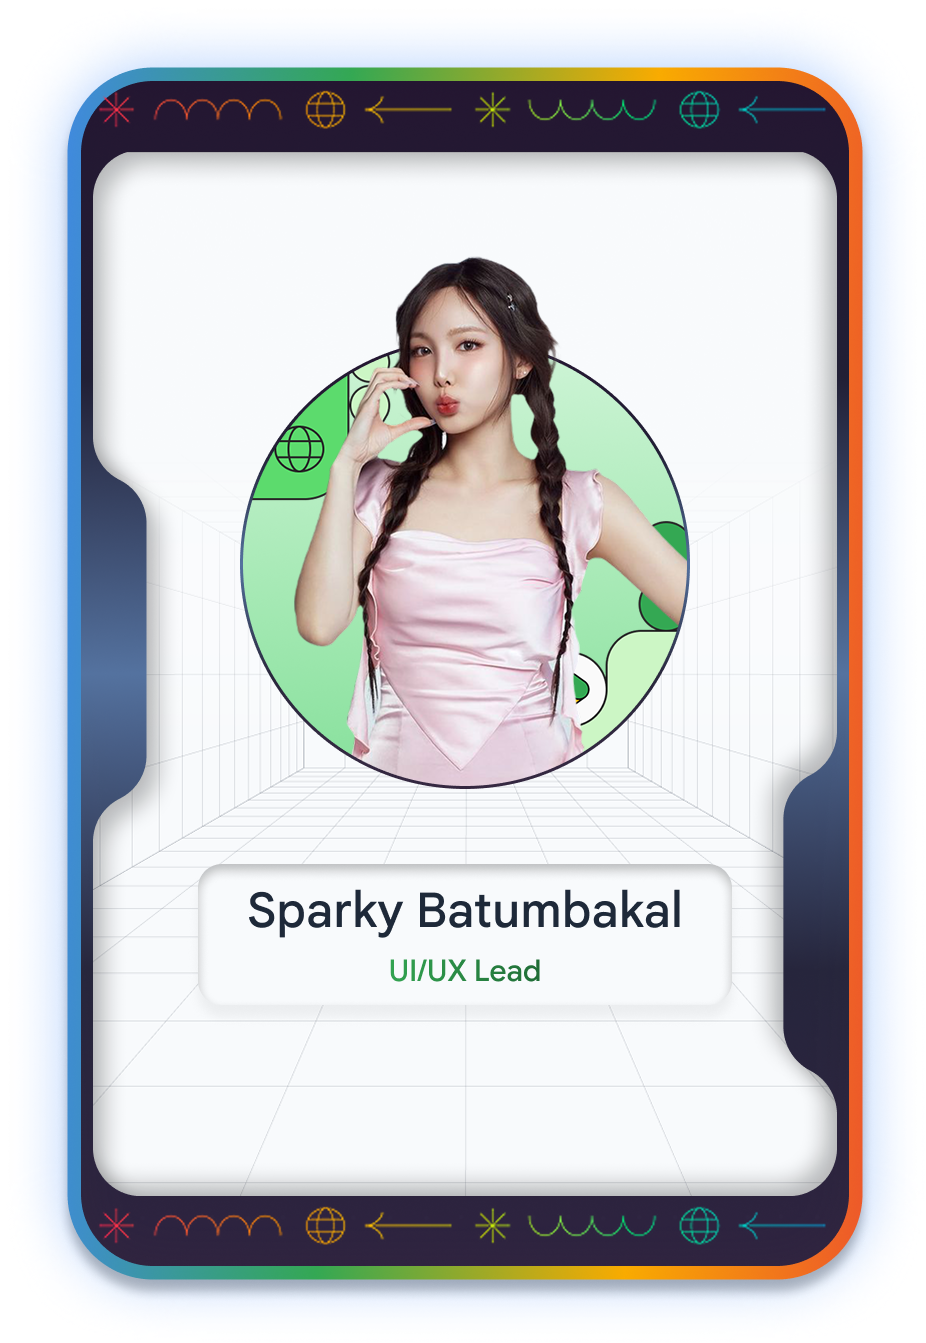
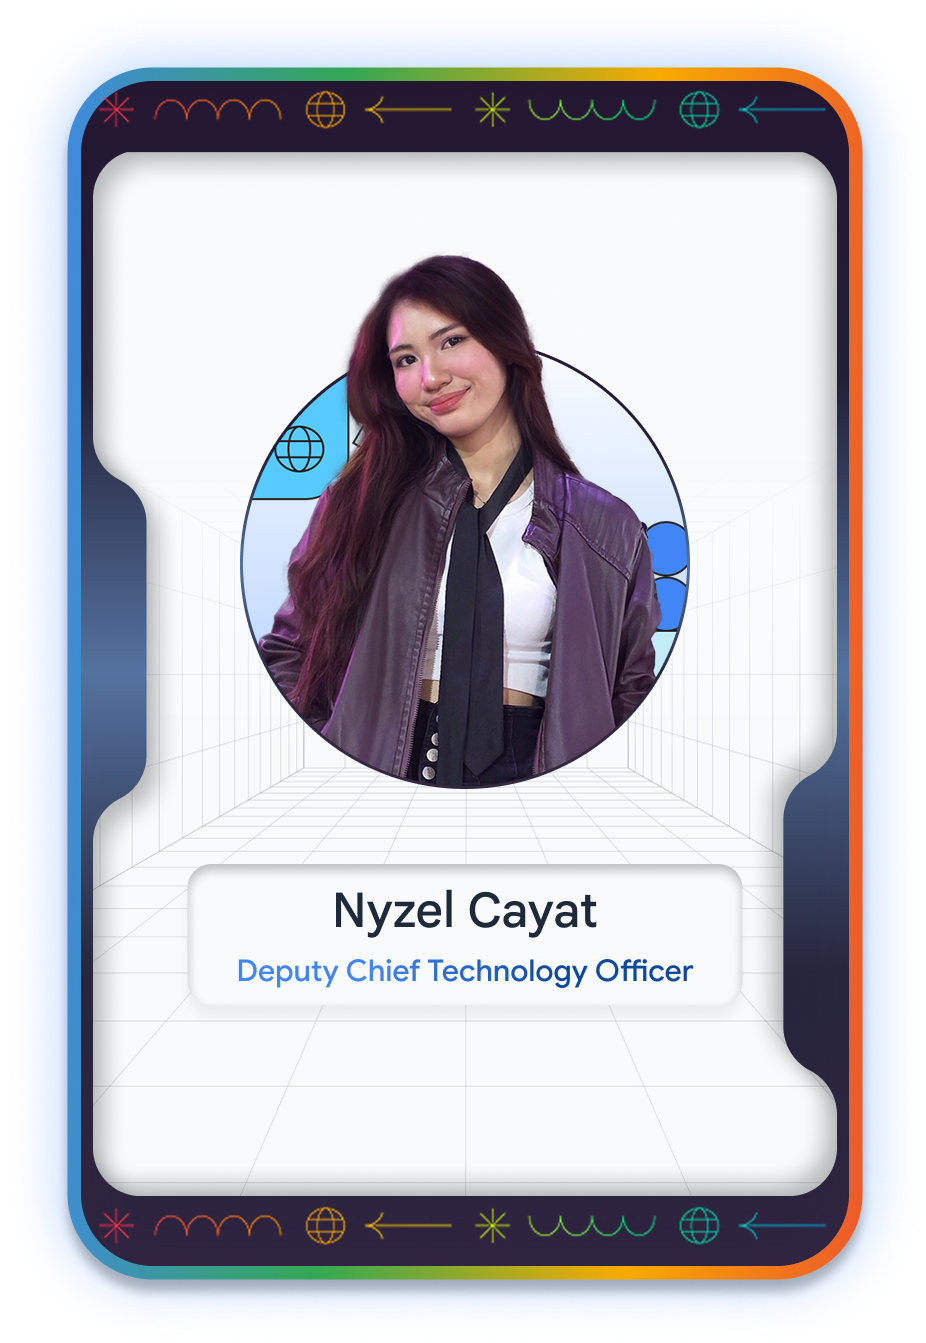
#105 contact page revisions and added more people on about page (#106)
* contact page revisions and added more people on the about page

* chief technology team

* error missing key prop

diff --git a/src/app/contacts/page.tsx b/src/app/contacts/page.tsx
@@ -55,8 +55,12 @@ const ContactsPage = () => {
               Stay Connected
             </h1>
 
-            <p className={cn(" text-base xl:text-xl -translate-y-3", 
-                "group-hover:tracking-wide transition-all duration-200")}>
+            <p
+              className={cn(
+                " text-base xl:text-xl -translate-y-3",
+                "group-hover:tracking-wide transition-all duration-200"
+              )}
+            >
               Got a question? Let Sparky help.
             </p>
           </div>
@@ -151,18 +155,18 @@ const Informations = () => {
       </div>
       <div className="w-full flex flex-col gap-4 mt-4">
         {DETAILS.map((detail, index) => (
-          <div key={index} className="flex flex-row items-start group w-fit">
-            <img
-              src={detail.image}
-              alt="sparky "
-              className="w-5 mx-2 group-hover:scale-120 transition-all duration-200"
-            />
-            <span className="flex flex-row items-start">
-              <div className="font-bold group-hover:text-gdg-orange-light transition-all duration-200">
-                {detail.title}:
+          <div key={index} className="flex flex-row items-start group ">
+            <div className="font-bold group-hover:text-gdg-orange-light transition-all duration-200 flex flex-row items-center gap-2">
+              <div className="w-5 aspect-square">
+                <img
+                  src={detail.image}
+                  alt="sparky "
+                  className="w-full h-auto object-cover group-hover:scale-120 transition-all duration-200"
+                />
               </div>
-              <div className="ml-2">{detail.description}</div>
-            </span>
+              <span>{detail.title}:</span>
+            </div>
+            <div className="ml-2">{detail.description}</div>
           </div>
         ))}
       </div>
@@ -222,10 +226,13 @@ const Form = () => {
   };
   return (
     <>
-      <form className={cn("w-full flex flex-col gap-4")} onSubmit={handleSubmit}>
+      <form
+        className={cn("w-full flex flex-col gap-4")}
+        onSubmit={handleSubmit}
+      >
         {/* Row 1: Name and Email side by side */}
         <div className="flex flex-row gap-4 w-full">
-          <div className="flex flex-col w-full">
+          <div className="flex flex-col w-full gap-2">
             <label className="text-text  text-sm ml-2">NAME</label>
             <input
               type="text"
@@ -238,7 +245,7 @@ const Form = () => {
               )}
             />
           </div>
-          <div className="flex flex-col w-full">
+          <div className="flex flex-col w-full gap-2">
             <label className="text-text  text-sm ml-2">EMAIL</label>
             <input
               type="email"
@@ -254,7 +261,7 @@ const Form = () => {
         </div>
 
         {/* Row 2: Subject */}
-        <div className="flex flex-col w-full">
+        <div className="flex flex-col w-full gap-2">
           <label className="text-text  text-sm ml-2">SUBJECT</label>
           <input
             type="text"
@@ -270,7 +277,7 @@ const Form = () => {
 
         {/* Row 3: Message */}
 
-        <div className="flex flex-col w-full">
+        <div className="flex flex-col w-full gap-2">
           <label className=" text-text  text-sm ml-2">MESSAGE</label>
           <textarea
             placeholder="Your Message"
@@ -310,9 +317,7 @@ const Form = () => {
 
         {success && (
           <>
-            <div className="w-full text-text ">
-              Message sent successfully
-            </div>
+            <div className="w-full text-text ">Message sent successfully</div>
           </>
         )}
 

diff --git a/src/app/about/page.tsx b/src/app/about/page.tsx
@@ -165,11 +165,21 @@ const AboutPage = () => {
                 {team.group}
               </div>
               {/* team members */}
-              <div className="  w-full  grid grid-cols-1 sm:grid-cols-2 md:grid-cols-2 lg:flex lg:flex-row lg:justify-center lg:grid-cols-none  gap-0">
-                {team.members.map((member, index) => (
-                  <MemberCard key={index} member={member} />
-                ))}
-              </div>
+              {index === 2 && (
+                <div className="  w-full  grid grid-cols-1 sm:grid-cols-2 md:grid-cols-2 lg:flex lg:flex-row lg:flex-wrap lg:justify-center lg:grid-cols-none  gap-0">
+                  {team.members.map((member, index) => (<div key={`helloworld${index}`} className=" lg:min-w-sm items-center flex justify-center">
+                    <MemberCard key={index} member={member} /></div>
+                  ))}
+                </div>
+              )}
+
+              {index !== 2 && (
+                <div className="  w-full  grid grid-cols-1 sm:grid-cols-2 md:grid-cols-2 lg:flex lg:flex-row lg:justify-center lg:grid-cols-none  gap-0">
+                  {team.members.map((member, index) => (
+                    <MemberCard key={index} member={member} />
+                  ))}
+                </div>
+              )}
             </div>
           ))}
         </div>
@@ -343,9 +353,17 @@ const CONTRIBUTORS: TeamType[] = [
     ],
   },
   {
-    group: "Technology Officers",
+    group: "Executive Technology Team",
     textColor: "green",
     members: [
+      {
+        name: "Carlos Jerico Dela Torre",
+        image: "/contributors/cards/jerico.png",
+        role: "Chief Technology Officer",
+        fb: "https://www.facebook.com/2iLiTE/",
+        ig: "https://www.instagram.com/__rikin__/",
+        linkedin: "https://www.linkedin.com/in/delatorrecj/",
+      },
       {
         name: "Nyzel Cayat",
         image: "/contributors/cards/nyzel.png",
@@ -357,12 +375,20 @@ const CONTRIBUTORS: TeamType[] = [
         role: "Deputy Chief Technology Officer",
       },
       {
-        name: "Carlos Jerico Dela Torre",
-        image: "/contributors/cards/jerico.png",
-        role: "Chief Technology Officer",
-        fb: "https://www.facebook.com/2iLiTE/",
-        ig: "https://www.instagram.com/__rikin__/",
-        linkedin: "https://www.linkedin.com/in/delatorrecj/",
+        name: "Randy Carlo Lorenzo",
+        image: "/contributors/cards/randy.png",
+        role: "Chapter Lead & President",
+        fb: "https://www.facebook.com/randycarlo.lorenzo",
+        ig: "https://www.instagram.com/randy_lrnz/",
+        linkedin: "https://www.linkedin.com/in/randycarlolorenzo/ ",
+      },
+      {
+        name: "Shunrenn Locaylocay",
+        image: "/contributors/cards/shunrenn.png",
+        role: "Chief Executive Officer",
+        fb: "https://www.facebook.com/shun.locs ",
+        ig: "https://www.instagram.com/shun_locs/ ",
+        linkedin: "https://ph.linkedin.com/in/shunrenn-locaylocay/",
       },
     ],
   },
